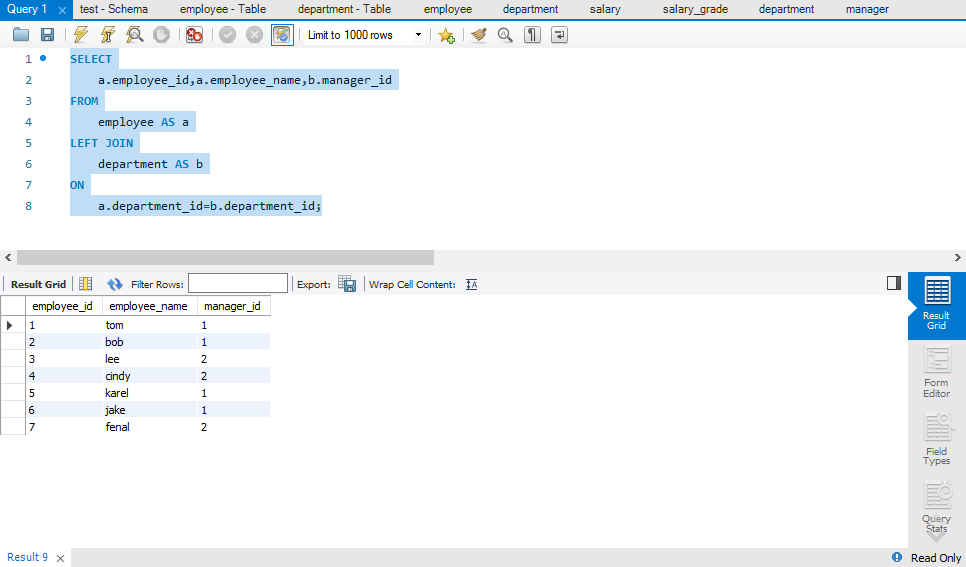
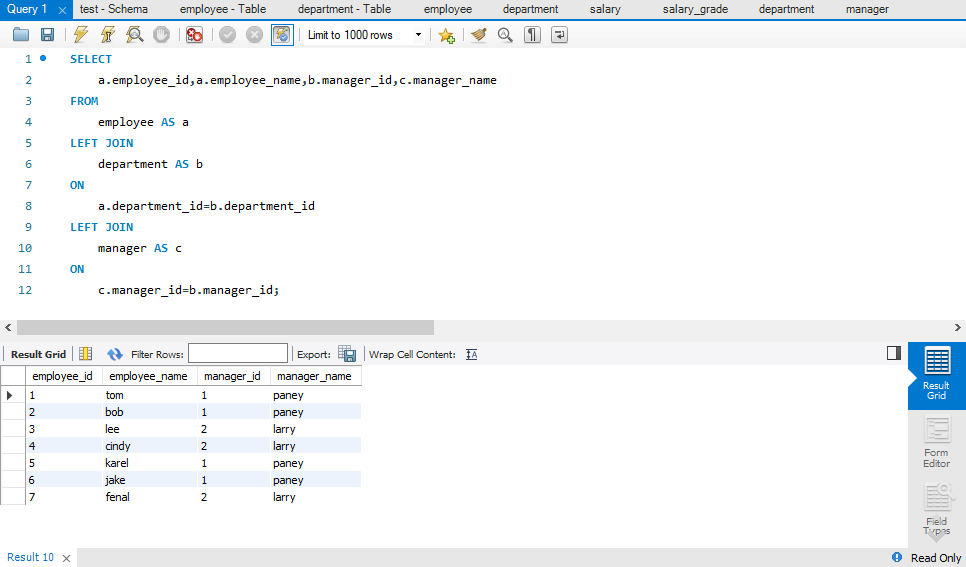
，，

Changed region(s): [[0.0, 0.06, 0.528, 0.8995], [0.9006, 0.4797, 1.0, 0.9594], [0.0311, 0.9594, 0.0621, 0.9894]]

diff --git a/_posts/2022-02-01-MySQL：常用的 SQL 优化经验.md b/_posts/2022-02-01-MySQL：常用的 SQL 优化经验.md
@@ -12,6 +12,7 @@ tags:
 
 
 #### SELECT 语句执行顺序
+
 - SELECT
 - DISTINCT <select_list>
   - 数据除重
@@ -86,24 +87,40 @@ WHERE
 #### 自连接 & 非自连接
 
 
+#### JOIN 使用
 
-#### 内连接 & 外连接
-
-
+![sql-5]({{site.baseurl}}/img-post/sql-5.png)
 
 #### LEFT JOIN
 
 ```aidl
 SELECT
-    a.employee_id,a.employee_name,b.manager_id
+    a.employee_id,a.employee_name,b.manager_id,c.manager_name
 FROM
     employee AS a
 LEFT JOIN
 	department AS b
 ON
-    a.department_id=b.department_id;
+    a.department_id=b.department_id
+LEFT JOIN
+	manager AS c
+ON
+    c.manager_id=b.manager_id;
 ```
 
 ![sql-3]({{site.baseurl}}/img-post/sql-3.png)
+
+
+#### UNION VS UNION ALL
+
+![sql-4]({{site.baseurl}}/img-post/sql-4.png)
+
+- UNION ALL 操作符返回两个查询的结果集的并集时，对于结果集的重复部分 **不去重**。
+- UNION ALL 不需要执行去重操作，执行时所需要的资源比 UNION 少；
+- 如果明知道合并后的数据结果不存在重复数据，或者不需要去重，则可以使用 UNION ALL，以提高查询的效率。
+- 使用 UNION ALL 需要注意，是否存在重复数据！
+
+
+
 
 
